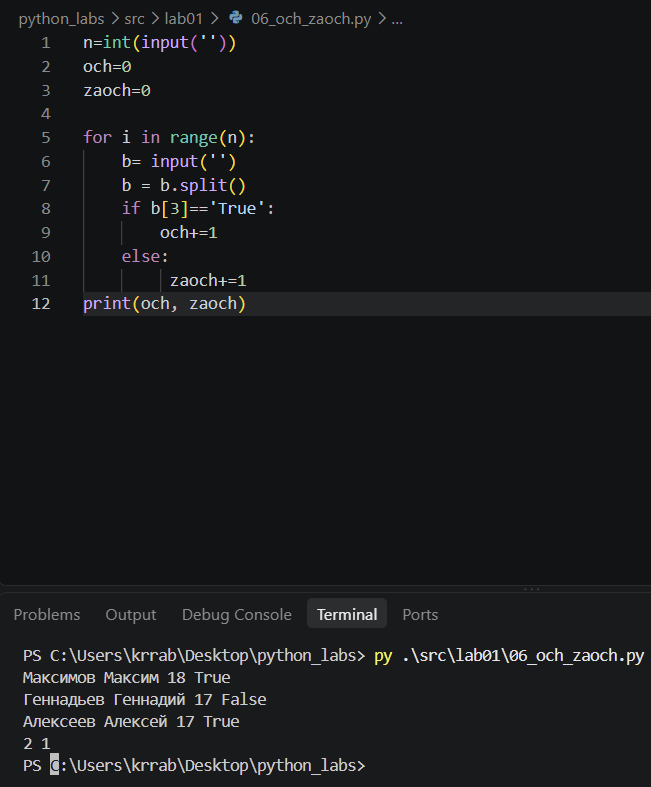
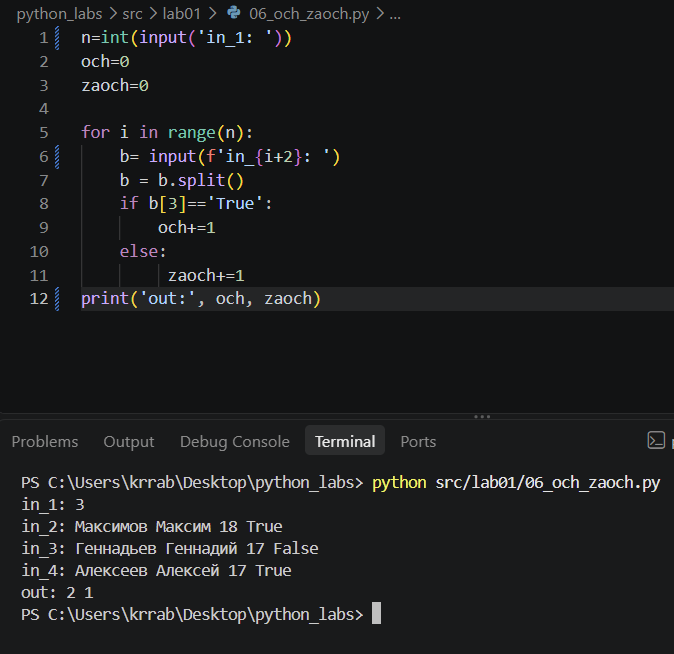
update

diff --git a/src/lab01/06_och_zaoch.py b/src/lab01/06_och_zaoch.py
@@ -1,12 +1,12 @@
-n=int(input(''))
+n=int(input('in_1: '))
 och=0
 zaoch=0
 
 for i in range(n):
-    b= input('')
+    b= input(f'in_{i+2}: ')
     b = b.split()
     if b[3]=='True':
         och+=1
     else:
          zaoch+=1
-print(och, zaoch)
+print('out:', och, zaoch)
